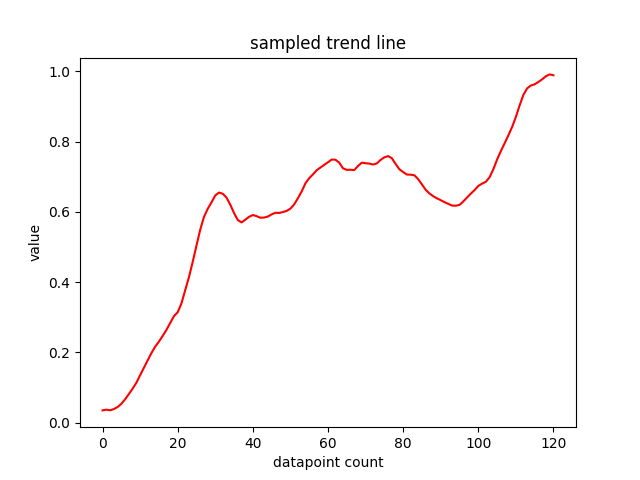
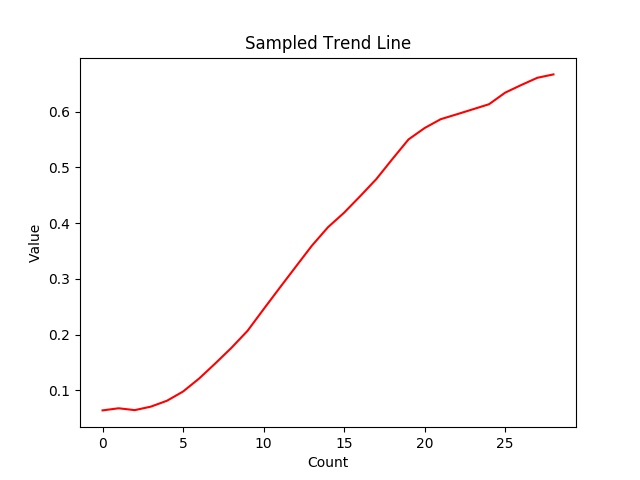
2020.01.16

diff --git a/train.py b/train.py
@@ -30,27 +30,18 @@ short_term_processor = None
 if __name__ == "__main__":
     os.system('clear')
     google = upload(goog, True)
-    dataset = partition_time_series(google, YEAR) # each time series will be a quarter-long (90 datapoints)
+    dataset = partition_time_series(google, QUARTER) # each time series will be a quarter-long (90 datapoints)
 
     # compute trend line of each time series
     loop = tqdm.tqdm(total = len(dataset), position = 0, leave = False)
     for timeseries in dataset:
         loop.set_description('Analyzing time series trend line and spike analysis ' .format(len(dataset)))
         matrix, prediction = rolling_mean_trend(timeseries, MONTH)
-        matrix = sampling(matrix, STANDARD_SAMPLING_RANGE)
+        matrix = sampling(matrix, 0, 2, STANDARD_SAMPLING_RANGE)
         timeseries.set_sampled_matrix(matrix)
         loop.update(1)
     print("\nCompleted trend line analysis")
     loop.close()
-
-    count = []
-    for i in range(dataset[0].sampled_size()):
-        count.append(i)
-    plt.plot(count, dataset[0].sampled_matrix(), color='red')
-    plt.xlabel("datapoint count")
-    plt.ylabel("value")
-    plt.title("sampled trend line")
-    plt.savefig("sampled.png")
 
     #model = model.KerasTrainer(dataset, "google")
     #model.train(True, 100, 32)

diff --git a/financial.py b/financial.py
@@ -7,7 +7,8 @@ import numpy as np
 
 DATASET_LABEL = ["TRAINING", "VALIDATING", "TESTING"]
 
-MONTH=29
+WEEK=8
+MONTH=30
 QUARTER=91
 YEAR=366
 
@@ -122,11 +123,16 @@ def rolling_mean_trend(time_series, trend_window_range):
     bias = -slope + y1
     linear_prediction = slope * 3 + bias
     return trend, linear_prediction
-def sampling(matrix, sampling_range=STANDARD_SAMPLING_RANGE):
+def sampling(matrix, itr=0, loop=2, sampling_range=STANDARD_SAMPLING_RANGE):
     """ Apply after trend line computation
     samples out the first and last datapoint on a specific range of a trend line """
-    sampled = []
-    sampled.append(matrix[0])
-    for _range in range(sampling_range, len(matrix) - sampling_range, sampling_range):
-        sampled.append(matrix[_range])
+    if itr == loop:
+        return 1
+    else:
+        sampled = []
+        sampled.append(matrix[0])
+        for _range in range(sampling_range, len(matrix) - sampling_range, sampling_range):
+            sampled.append(matrix[_range])
+        itr += 1
+        sampling(sampled, itr, loop, sampling_range)
     return sampled
